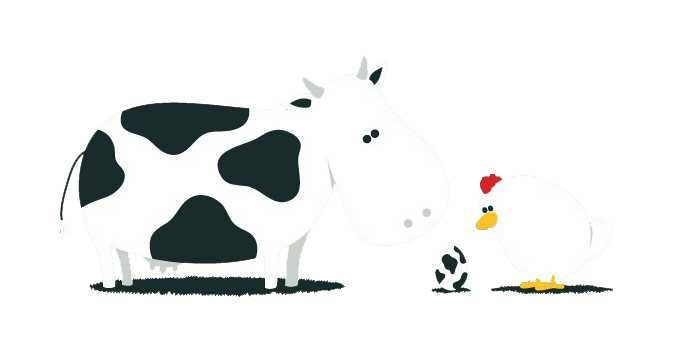
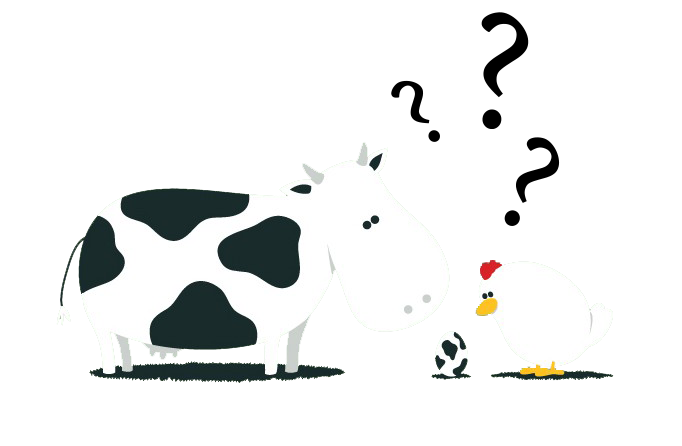
change img cowhen + position css

diff --git a/css/addson.css b/css/addson.css
@@ -15,7 +15,7 @@
 }
 
 #homepage-welcome .cowhen img {
-    max-width: 75%;
+    max-width: 80%;
     position: absolute;
     right: 100px;
     top: 250px; 
